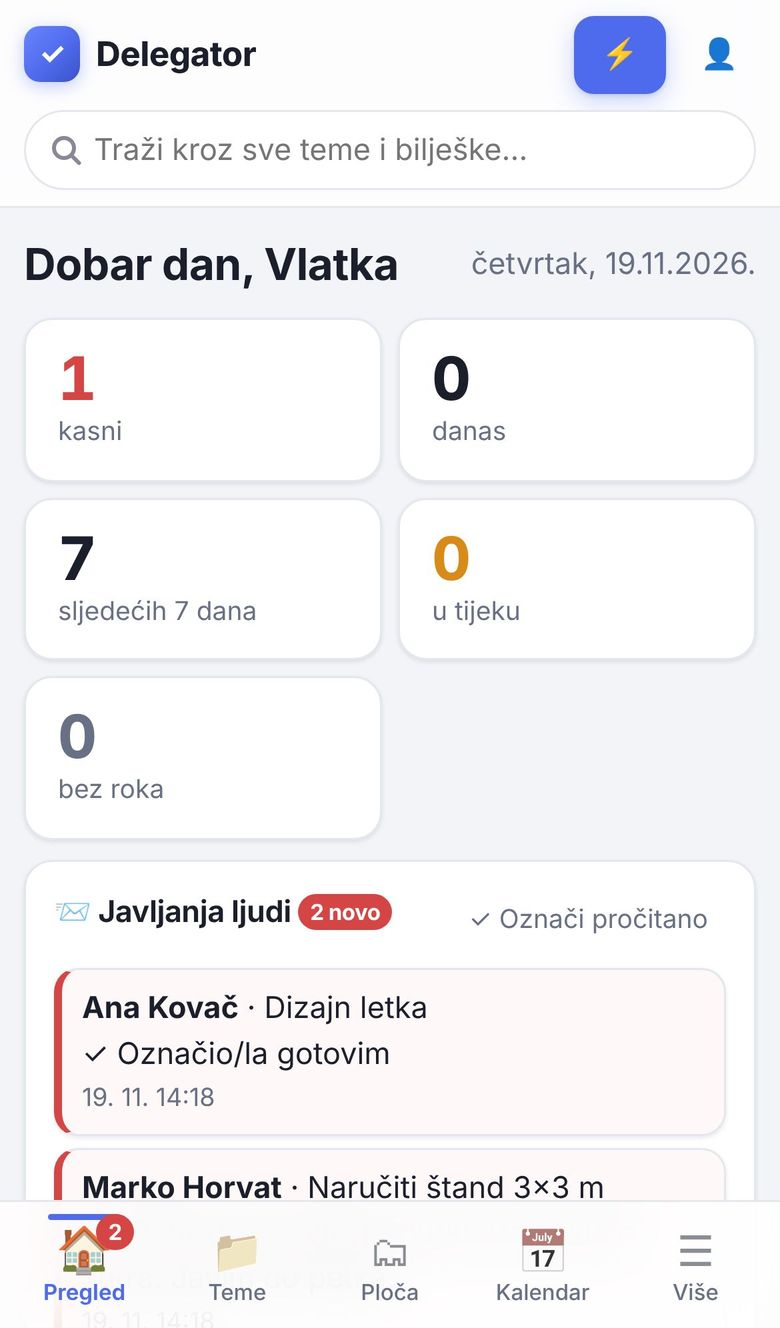
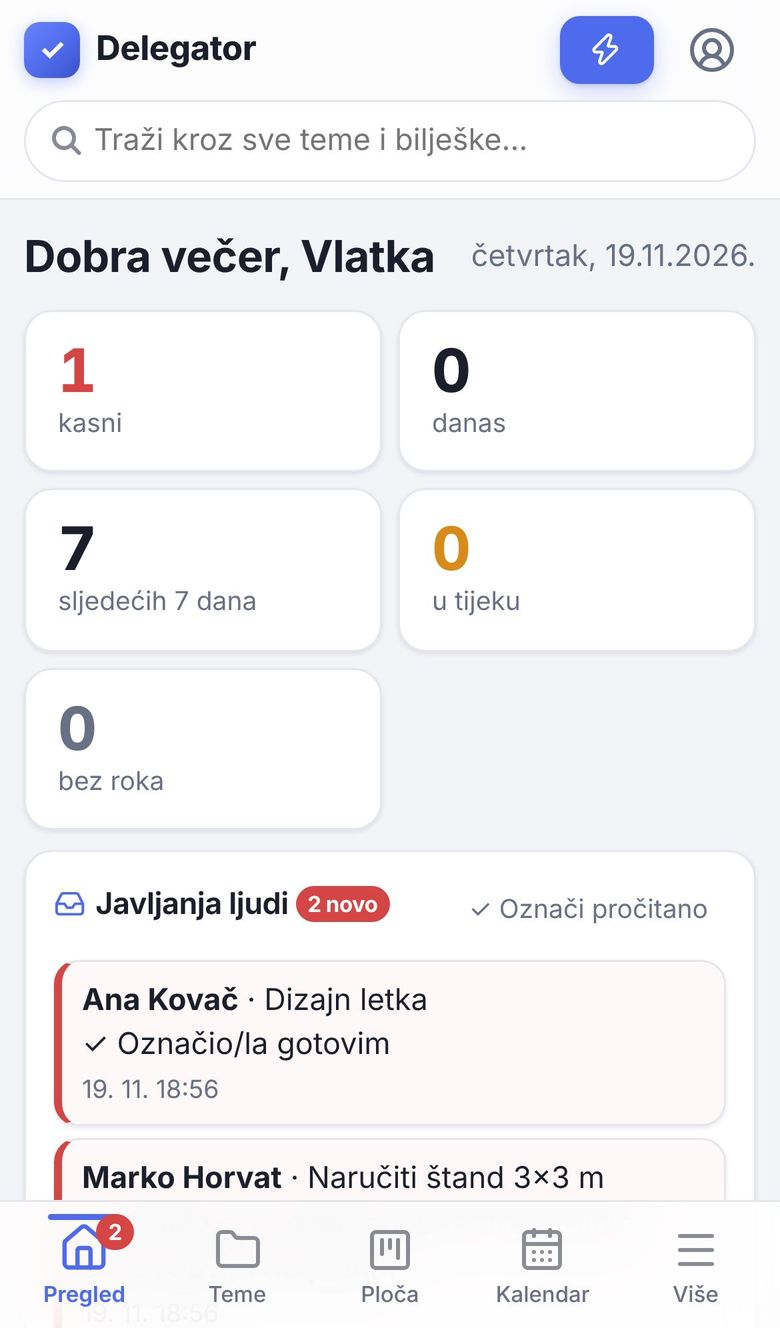
Upute: nove snimke s ikonama, ikone umjesto emojija u tekstu
Claude-Session: https://claude.ai/code/session_01YXfM3rTDVFUqxeX7kwmFfC

diff --git a/vodic.html b/vodic.html
@@ -118,6 +118,9 @@
     .phone { max-width: 320px; margin: 0 auto; }
   }
   @media (max-width: 700px) { body { font-size: 17px; } .points, .shots2 { grid-template-columns: minmax(0, 1fr); } .intro { font-size: 18px; } }
+  svg.ui { width: 1.05em; height: 1.05em; vertical-align: -0.17em; display: inline-block; }
+  h2 > svg.ui, h3 > svg.ui { color: var(--accent); width: .95em; height: .95em; vertical-align: -0.08em; margin-right: .1em; }
+  .say::before { content: none; }
 </style>
 </head>
 <body>
@@ -167,38 +170,38 @@
           <li><h3>Otvori pozivnicu</h3><p>Upiši ime, e-mail i lozinku. Poveznica vrijedi 7 dana i samo za jedan račun.</p></li>
           <li><h3>Prođi kratki vodič</h3><p>Aplikacija te sama provede kroz glavne dijelove. Uključi probnu temu da odmah vidiš kako sve izgleda.</p></li>
           <li><h3>Dodaj svoje ljude</h3><p>U kartici „Ljudi“ upiši osobe kojima delegiraš, po želji s e-mailom.</p></li>
-          <li><h3>Napravi prvi zadatak</h3><p>Najbrže preko ⚡ Brzog unosa. Probnu temu obrišeš jednim klikom kad ti više ne treba.</p></li>
+          <li><h3>Napravi prvi zadatak</h3><p>Najbrže preko <svg class="ui" viewBox="0 0 24 24" fill="none" stroke="currentColor" stroke-width="2" stroke-linecap="round" stroke-linejoin="round" aria-hidden="true"><path d="M15.914 4a1.5 1.5 0 00-2.474-1.561l-9 9A1.5 1.5 0 005.5 14h4.002a.5.5 0 01.471.666L8.086 20a1.5 1.5 0 002.475 1.56l9-9A1.5 1.5 0 0018.5 10h-3.997a.5.5 0 01-.472-.667z"/></svg> Brzog unosa. Probnu temu obrišeš jednim klikom kad ti više ne treba.</p></li>
         </ol>
         <figure class="shot"><img src="/vodic/vodic.jpg" alt="Vodič kroz aplikaciju: kartica s objašnjenjem i istaknut gumb Brzi unos" width="1600" height="1000" loading="lazy">
-          <figcaption>Vodič se otvara sam pri prvoj prijavi. Kasnije ga pokreneš u izborniku 👤 → ❓ Vodič.</figcaption></figure>
+          <figcaption>Vodič se otvara sam pri prvoj prijavi. Kasnije ga pokreneš u izborniku <svg class="ui" viewBox="0 0 24 24" fill="none" stroke="currentColor" stroke-width="2" stroke-linecap="round" stroke-linejoin="round" aria-hidden="true"><path d="M17.925 20.056a6 6 0 0 0-11.851.001"/><circle cx="12" cy="11" r="4"/><circle cx="12" cy="12" r="10"/></svg> → <svg class="ui" viewBox="0 0 24 24" fill="none" stroke="currentColor" stroke-width="2" stroke-linecap="round" stroke-linejoin="round" aria-hidden="true"><circle cx="12" cy="12" r="10"/><path d="M9.09 9a3 3 0 0 1 5.83 1c0 2-3 3-3 3"/><path d="M12 17h.01"/></svg> Vodič.</figcaption></figure>
       </section>
 
       <section id="izgled">
-        <h2>🌓 Novi izgled <span class="tag">novo</span></h2>
+        <h2><svg class="ui" viewBox="0 0 24 24" fill="none" stroke="currentColor" stroke-width="2" stroke-linecap="round" stroke-linejoin="round" aria-hidden="true"><path d="M12 2v2"/><path d="M14.837 16.385a6 6 0 1 1-7.223-7.222c.624-.147.97.66.715 1.248a4 4 0 0 0 5.26 5.259c.589-.255 1.396.09 1.248.715"/><path d="M16 12a4 4 0 0 0-4-4"/><path d="m19 5-1.256 1.256"/><path d="M20 12h2"/></svg> Novi izgled <span class="tag">novo</span></h2>
         <p class="intro">Delegator ima tamni način rada i mobitelu prilagođenu navigaciju. Kad nešto spremiš, dolje se kratko pojavi „✓ Spremljeno“.</p>
         <ul class="points">
-          <li><b>🌙 Tamni način</b>: sam se uključi kad je mobitel ili računalo u tamnom načinu. Ručno ga biraš u izborniku 👤 → Izgled (Automatski, Svijetli, Tamni).</li>
-          <li><b>📱 Donja traka na mobitelu</b>: Pregled, Teme, Ploča i Kalendar su na dohvat palca, a ostalo je pod ☰ Više.</li>
-          <li><b>🖥 Na računalu</b> su sve kartice gore u zaglavlju, a pretraga je uvijek pri ruci.</li>
-          <li><b>✨ Sitne potvrde</b>: završen zadatak kratko zasvijetli, a kvačica koraka „poskoči“.</li>
+          <li><b><svg class="ui" viewBox="0 0 24 24" fill="none" stroke="currentColor" stroke-width="2" stroke-linecap="round" stroke-linejoin="round" aria-hidden="true"><path d="M20.985 12.486a9 9 0 1 1-9.473-9.472c.405-.022.617.46.402.803a6 6 0 0 0 8.268 8.268c.344-.215.825-.004.803.401"/></svg> Tamni način</b>: sam se uključi kad je mobitel ili računalo u tamnom načinu. Ručno ga biraš u izborniku <svg class="ui" viewBox="0 0 24 24" fill="none" stroke="currentColor" stroke-width="2" stroke-linecap="round" stroke-linejoin="round" aria-hidden="true"><path d="M17.925 20.056a6 6 0 0 0-11.851.001"/><circle cx="12" cy="11" r="4"/><circle cx="12" cy="12" r="10"/></svg> → Izgled (Automatski, Svijetli, Tamni).</li>
+          <li><b><svg class="ui" viewBox="0 0 24 24" fill="none" stroke="currentColor" stroke-width="2" stroke-linecap="round" stroke-linejoin="round" aria-hidden="true"><rect width="14" height="20" x="5" y="2" rx="2" ry="2"/><path d="M12 18h.01"/></svg> Donja traka na mobitelu</b>: Pregled, Teme, Ploča i Kalendar su na dohvat palca, a ostalo je pod <svg class="ui" viewBox="0 0 24 24" fill="none" stroke="currentColor" stroke-width="2" stroke-linecap="round" stroke-linejoin="round" aria-hidden="true"><path d="M4 5h16"/><path d="M4 12h16"/><path d="M4 19h16"/></svg> Više.</li>
+          <li><b><svg class="ui" viewBox="0 0 24 24" fill="none" stroke="currentColor" stroke-width="2" stroke-linecap="round" stroke-linejoin="round" aria-hidden="true"><rect width="20" height="14" x="2" y="3" rx="2"/><line x1="8" x2="16" y1="21" y2="21"/><line x1="12" x2="12" y1="17" y2="21"/></svg> Na računalu</b> su sve kartice gore u zaglavlju, a pretraga je uvijek pri ruci.</li>
+          <li><b><svg class="ui" viewBox="0 0 24 24" fill="none" stroke="currentColor" stroke-width="2" stroke-linecap="round" stroke-linejoin="round" aria-hidden="true"><path d="M11.017 2.814a1 1 0 0 1 1.966 0l1.051 5.558a2 2 0 0 0 1.594 1.594l5.558 1.051a1 1 0 0 1 0 1.966l-5.558 1.051a2 2 0 0 0-1.594 1.594l-1.051 5.558a1 1 0 0 1-1.966 0l-1.051-5.558a2 2 0 0 0-1.594-1.594l-5.558-1.051a1 1 0 0 1 0-1.966l5.558-1.051a2 2 0 0 0 1.594-1.594z"/><path d="M20 2v4"/><path d="M22 4h-4"/><circle cx="4" cy="20" r="2"/></svg> Sitne potvrde</b>: završen zadatak kratko zasvijetli, a kvačica koraka „poskoči“.</li>
         </ul>
         <div class="shots2">
           <figure class="shot"><img src="/vodic/tamna.jpg" alt="Pregled u tamnom načinu rada" width="1600" height="1000" loading="lazy">
             <figcaption>Pregled u tamnom načinu.</figcaption></figure>
           <figure class="shot"><img src="/vodic/izbornik.jpg" alt="Izbornik računa s izborom izgleda: Automatski, Svijetli, Tamni" width="1600" height="1000" loading="lazy">
-            <figcaption>👤 → Izgled: Automatski, Svijetli ili Tamni.</figcaption></figure>
+            <figcaption><svg class="ui" viewBox="0 0 24 24" fill="none" stroke="currentColor" stroke-width="2" stroke-linecap="round" stroke-linejoin="round" aria-hidden="true"><path d="M17.925 20.056a6 6 0 0 0-11.851.001"/><circle cx="12" cy="11" r="4"/><circle cx="12" cy="12" r="10"/></svg> → Izgled: Automatski, Svijetli ili Tamni.</figcaption></figure>
         </div>
       </section>
 
       <section id="brzi-unos">
-        <h2>⚡ Brzi unos uz AI</h2>
+        <h2><svg class="ui" viewBox="0 0 24 24" fill="none" stroke="currentColor" stroke-width="2" stroke-linecap="round" stroke-linejoin="round" aria-hidden="true"><path d="M15.914 4a1.5 1.5 0 00-2.474-1.561l-9 9A1.5 1.5 0 005.5 14h4.002a.5.5 0 01.471.666L8.086 20a1.5 1.5 0 002.475 1.56l9-9A1.5 1.5 0 0018.5 10h-3.997a.5.5 0 01-.472-.667z"/></svg> Brzi unos uz AI</h2>
         <p class="intro">Zadatak ne moraš slagati polje po polje. Reci ga, upiši jednom rečenicom ili slikaj dokument, a AI predloži temu, osobu, rok, korake i bilješke. Prije spremanja sve provjeriš.</p>
-        <div class="say">„Marko do petka naruči štand za sajam, budžet 2000 eura“</div>
+        <div class="say"><svg class="ui" viewBox="0 0 24 24" fill="none" stroke="currentColor" stroke-width="2" stroke-linecap="round" stroke-linejoin="round" aria-hidden="true"><path d="M12 19v3"/><path d="M19 10v2a7 7 0 0 1-14 0v-2"/><rect x="9" y="2" width="6" height="13" rx="3"/></svg> „Marko do petka naruči štand za sajam, budžet 2000 eura“</div>
         <ul class="points">
-          <li><b>Glasom</b>: 🎤 diktiranje na hrvatskom, razumije i padeže („Marku“ je Marko). Kad kažeš „moram…“ ili „ja ću…“, zadatak dobiješ ti.</li>
+          <li><b>Glasom</b>: <svg class="ui" viewBox="0 0 24 24" fill="none" stroke="currentColor" stroke-width="2" stroke-linecap="round" stroke-linejoin="round" aria-hidden="true"><path d="M12 19v3"/><path d="M19 10v2a7 7 0 0 1-14 0v-2"/><rect x="9" y="2" width="6" height="13" rx="3"/></svg> diktiranje na hrvatskom, razumije i padeže („Marku“ je Marko). Kad kažeš „moram…“ ili „ja ću…“, zadatak dobiješ ti.</li>
           <li><b>Fotografijom</b>: račun, ponuda, dopis, ploča sa sastanka. AI pročita iznos, rok, IBAN i poziv na broj.</li>
           <li><b>PDF-om</b>: ponuda ili račun iz maila, i skenirani dokumenti. Datoteka ostaje uz zadatak kao prilog.</li>
-          <li><b>📋 Zapisnik sa sastanka</b>: uključi „Zapisnik / popis“ i AI iz jednog teksta napravi više zadataka, svaki za svoju osobu.</li>
+          <li><b><svg class="ui" viewBox="0 0 24 24" fill="none" stroke="currentColor" stroke-width="2" stroke-linecap="round" stroke-linejoin="round" aria-hidden="true"><rect width="8" height="4" x="8" y="2" rx="1" ry="1"/><path d="M16 4h2a2 2 0 0 1 2 2v14a2 2 0 0 1-2 2H6a2 2 0 0 1-2-2V6a2 2 0 0 1 2-2h2"/><path d="M12 11h4"/><path d="M12 16h4"/><path d="M8 11h.01"/><path d="M8 16h.01"/></svg> Zapisnik sa sastanka</b>: uključi „Zapisnik / popis“ i AI iz jednog teksta napravi više zadataka, svaki za svoju osobu.</li>
         </ul>
         <div class="shots2">
           <figure class="shot"><img src="/vodic/brzi-unos.jpg" alt="Prijedlog zadatka iz fotografije računa s rokom, osobom i podacima za plaćanje" width="1600" height="1000" loading="lazy">
@@ -209,15 +212,15 @@
       </section>
 
       <section id="teme">
-        <h2>📁 Teme, zadaci i koraci</h2>
+        <h2><svg class="ui" viewBox="0 0 24 24" fill="none" stroke="currentColor" stroke-width="2" stroke-linecap="round" stroke-linejoin="round" aria-hidden="true"><path d="M20 20a2 2 0 0 0 2-2V8a2 2 0 0 0-2-2h-7.9a2 2 0 0 1-1.69-.9L9.6 3.9A2 2 0 0 0 7.93 3H4a2 2 0 0 0-2 2v13a2 2 0 0 0 2 2Z"/></svg> Teme, zadaci i koraci</h2>
         <p class="intro">Sve je složeno u teme i podteme bilo koje dubine, npr. Sajam 2027 › Štand. Klikni zadatak da ga otvoriš: koraci, prilozi, bilješke za svaku osobu i javljanja.</p>
         <ul class="points">
-          <li><b>☑ Koraci</b>: popis za kvačice unutar zadatka, s napretkom „1/3“ na zadatku i ploči.</li>
+          <li><b><svg class="ui" viewBox="0 0 24 24" fill="none" stroke="currentColor" stroke-width="2" stroke-linecap="round" stroke-linejoin="round" aria-hidden="true"><path d="M13 5h8"/><path d="M13 12h8"/><path d="M13 19h8"/><path d="m3 17 2 2 4-4"/><path d="m3 7 2 2 4-4"/></svg> Koraci</b>: popis za kvačice unutar zadatka, s napretkom „1/3“ na zadatku i ploči.</li>
           <li><b>Bilješke za svaku osobu</b>: Marko vidi svoje upute, Ana svoje, a opće vrijede za sve.</li>
-          <li><b>📎 Prilozi</b>: PDF, fotografije i dokumenti uz zadatak, bilješku ili cijelu temu. PDF se otvara unutar aplikacije.</li>
-          <li><b>🔁 Ponavljanje</b>: tjedni sastanak ili mjesečni PDV. Kad ga završiš, sam se napravi sljedeći.</li>
-          <li><b>📋 Predlošci</b>: temu spremiš kao predložak i za sljedeći projekt je kopiraš, s preračunatim rokovima.</li>
-          <li><b>🔍 Pretraga</b> kroz sve teme, bilješke i nazive priloga, bez obzira na kvačice („stand“ nađe „štand“).</li>
+          <li><b><svg class="ui" viewBox="0 0 24 24" fill="none" stroke="currentColor" stroke-width="2" stroke-linecap="round" stroke-linejoin="round" aria-hidden="true"><path d="m16 6-8.414 8.586a2 2 0 0 0 2.829 2.829l8.414-8.586a4 4 0 1 0-5.657-5.657l-8.379 8.551a6 6 0 1 0 8.485 8.485l8.379-8.551"/></svg> Prilozi</b>: PDF, fotografije i dokumenti uz zadatak, bilješku ili cijelu temu. PDF se otvara unutar aplikacije.</li>
+          <li><b><svg class="ui" viewBox="0 0 24 24" fill="none" stroke="currentColor" stroke-width="2" stroke-linecap="round" stroke-linejoin="round" aria-hidden="true"><path d="m17 2 4 4-4 4"/><path d="M3 11v-1a4 4 0 0 1 4-4h14"/><path d="m7 22-4-4 4-4"/><path d="M21 13v1a4 4 0 0 1-4 4H3"/></svg> Ponavljanje</b>: tjedni sastanak ili mjesečni PDV. Kad ga završiš, sam se napravi sljedeći.</li>
+          <li><b><svg class="ui" viewBox="0 0 24 24" fill="none" stroke="currentColor" stroke-width="2" stroke-linecap="round" stroke-linejoin="round" aria-hidden="true"><rect width="8" height="4" x="8" y="2" rx="1" ry="1"/><path d="M16 4h2a2 2 0 0 1 2 2v14a2 2 0 0 1-2 2H6a2 2 0 0 1-2-2V6a2 2 0 0 1 2-2h2"/><path d="M12 11h4"/><path d="M12 16h4"/><path d="M8 11h.01"/><path d="M8 16h.01"/></svg> Predlošci</b>: temu spremiš kao predložak i za sljedeći projekt je kopiraš, s preračunatim rokovima.</li>
+          <li><b><svg class="ui" viewBox="0 0 24 24" fill="none" stroke="currentColor" stroke-width="2" stroke-linecap="round" stroke-linejoin="round" aria-hidden="true"><path d="m21 21-4.34-4.34"/><circle cx="11" cy="11" r="8"/></svg> Pretraga</b> kroz sve teme, bilješke i nazive priloga, bez obzira na kvačice („stand“ nađe „štand“).</li>
         </ul>
         <figure class="shot"><img src="/vodic/teme.jpg" alt="Otvoreni zadatak s koracima, PDF prilogom, bilješkom za Marka i Markovim javljanjem" width="1600" height="1000" loading="lazy">
           <figcaption>Otvoreni zadatak: koraci, PDF ponuda, upute za Marka i njegovo javljanje („Dobio sam dvije ponude…“).</figcaption></figure>
@@ -245,77 +248,77 @@
       </section>
 
       <section id="poveznica">
-        <h2>🔗 Poveznica za ljude kojima delegiraš</h2>
+        <h2><svg class="ui" viewBox="0 0 24 24" fill="none" stroke="currentColor" stroke-width="2" stroke-linecap="round" stroke-linejoin="round" aria-hidden="true"><path d="M10 13a5 5 0 0 0 7.54.54l3-3a5 5 0 0 0-7.07-7.07l-1.72 1.71"/><path d="M14 11a5 5 0 0 0-7.54-.54l-3 3a5 5 0 0 0 7.07 7.07l1.71-1.71"/></svg> Poveznica za ljude kojima delegiraš</h2>
         <p class="intro">Svaka osoba dobije svoju poveznicu. Na mobitelu vidi samo svoje zadatke, upute, korake i priloge, a može označiti „U tijeku“ ili „Gotovo“ i napisati poruku. Bez registracije. Ti njeno javljanje odmah vidiš u Pregledu, uz obavijest na mobitel.</p>
         <div class="withphone">
           <figure class="shot"><img src="/vodic/poveznica.jpg" alt="Dijalog s osobnom poveznicom za Marka i gumbima za kopiranje, WhatsApp i mail" width="1600" height="1000" loading="lazy">
-            <figcaption>Ljudi → 🔗 → pošalji poveznicu WhatsAppom ili mailom.</figcaption></figure>
+            <figcaption>Ljudi → <svg class="ui" viewBox="0 0 24 24" fill="none" stroke="currentColor" stroke-width="2" stroke-linecap="round" stroke-linejoin="round" aria-hidden="true"><path d="M10 13a5 5 0 0 0 7.54.54l3-3a5 5 0 0 0-7.07-7.07l-1.72 1.71"/><path d="M14 11a5 5 0 0 0-7.54-.54l-3 3a5 5 0 0 0 7.07 7.07l1.71-1.71"/></svg> → pošalji poveznicu WhatsAppom ili mailom.</figcaption></figure>
           <div><div class="phone"><img src="/vodic/osoba-mobitel.jpg" alt="Markova stranica na mobitelu s njegovim zadacima i gumbima za status" width="780" height="1328" loading="lazy"></div>
             <div class="phone-cap">Ovo vidi Marko na svom mobitelu</div></div>
         </div>
       </section>
 
       <section id="pregled">
-        <h2>🏠 Pregled</h2>
+        <h2><svg class="ui" viewBox="0 0 24 24" fill="none" stroke="currentColor" stroke-width="2" stroke-linecap="round" stroke-linejoin="round" aria-hidden="true"><path d="M15 21v-8a1 1 0 0 0-1-1h-4a1 1 0 0 0-1 1v8"/><path d="M3 10a2 2 0 0 1 .709-1.528l7-6a2 2 0 0 1 2.582 0l7 6A2 2 0 0 1 21 10v9a2 2 0 0 1-2 2H5a2 2 0 0 1-2-2z"/></svg> Pregled</h2>
         <p class="intro">Početna stranica za jutarnju kavu: što kasni, što je danas i što dolazi ovaj tjedan, tko se javio (crvena značka), tko je koliko opterećen i koliko je koja tema gotova. Klik na bilo što vodi u detalje.</p>
       </section>
 
       <section id="kalendar">
-        <h2>📅 Kalendar</h2>
+        <h2><svg class="ui" viewBox="0 0 24 24" fill="none" stroke="currentColor" stroke-width="2" stroke-linecap="round" stroke-linejoin="round" aria-hidden="true"><path d="M8 2v3"/><path d="M16 2v3"/><rect x="3" y="3" width="18" height="18" rx="2"/><path d="M3 9h18"/><path d="M8 13h.01"/><path d="M12 13h.01"/><path d="M16 13h.01"/><path d="M8 17h.01"/><path d="M12 17h.01"/><path d="M16 17h.01"/></svg> Kalendar</h2>
         <p class="intro">Svi rokovi na jednom mjestu (mjesec, tjedan ili popis), obojeni po temi. Hrvatski blagdani su označeni.</p>
         <ul class="points">
           <li><b>Povuci zadatak</b> na drugi dan i rok se promijeni. Višednevni zadaci pomiču se cijeli.</li>
           <li><b>„+“ u danu</b> dodaje zadatak s tim rokom. Filtri po osobi i temi.</li>
-          <li><b>📲 Dodaj u Google/Apple kalendar</b>: rokovi se sami pojavljuju u kalendaru na mobitelu.</li>
-          <li><b>🔁 Ponavljanja</b> se vide unaprijed, blijedo.</li>
+          <li><b><svg class="ui" viewBox="0 0 24 24" fill="none" stroke="currentColor" stroke-width="2" stroke-linecap="round" stroke-linejoin="round" aria-hidden="true"><rect width="14" height="20" x="5" y="2" rx="2" ry="2"/><path d="M12 18h.01"/></svg> Dodaj u Google/Apple kalendar</b>: rokovi se sami pojavljuju u kalendaru na mobitelu.</li>
+          <li><b><svg class="ui" viewBox="0 0 24 24" fill="none" stroke="currentColor" stroke-width="2" stroke-linecap="round" stroke-linejoin="round" aria-hidden="true"><path d="m17 2 4 4-4 4"/><path d="M3 11v-1a4 4 0 0 1 4-4h14"/><path d="m7 22-4-4 4-4"/><path d="M21 13v1a4 4 0 0 1-4 4H3"/></svg> Ponavljanja</b> se vide unaprijed, blijedo.</li>
         </ul>
         <figure class="shot"><img src="/vodic/kalendar.jpg" alt="Mjesečni kalendar sa zadacima obojenima po temama" width="1600" height="1000" loading="lazy"></figure>
       </section>
 
       <section id="ploca">
-        <h2>🗂 Ploča</h2>
+        <h2><svg class="ui" viewBox="0 0 24 24" fill="none" stroke="currentColor" stroke-width="2" stroke-linecap="round" stroke-linejoin="round" aria-hidden="true"><rect width="18" height="18" x="3" y="3" rx="2"/><path d="M8 7v7"/><path d="M12 7v4"/><path d="M16 7v9"/></svg> Ploča</h2>
         <p class="intro">Zadaci u tri stupca: Za napraviti, U tijeku i Gotovo. Povuci karticu kad se nešto pomakne. Na kartici se vide rok, ljudi, koraci i prilozi.</p>
         <figure class="shot"><img src="/vodic/ploca.jpg" alt="Ploča s tri stupca zadataka" width="1600" height="1000" loading="lazy"></figure>
       </section>
 
       <section id="biljeske">
-        <h2>📝 Bilješke</h2>
-        <p class="intro">Tvoje osobne bilješke, nevezane uz zadatke: ideje, sastanci, popisi, računi. Vidiš ih samo ti. Mogu imati boju, biti 📌 prikvačene, izdiktirane 🎤 i imati priloge.</p>
+        <h2><svg class="ui" viewBox="0 0 24 24" fill="none" stroke="currentColor" stroke-width="2" stroke-linecap="round" stroke-linejoin="round" aria-hidden="true"><path d="M13.4 2H6a2 2 0 0 0-2 2v16a2 2 0 0 0 2 2h12a2 2 0 0 0 2-2v-7.4"/><path d="M2 6h4"/><path d="M2 10h4"/><path d="M2 14h4"/><path d="M2 18h4"/><path d="M21.378 5.626a1 1 0 1 0-3.004-3.004l-5.01 5.012a2 2 0 0 0-.506.854l-.837 2.87a.5.5 0 0 0 .62.62l2.87-.837a2 2 0 0 0 .854-.506z"/></svg> Bilješke</h2>
+        <p class="intro">Tvoje osobne bilješke, nevezane uz zadatke: ideje, sastanci, popisi, računi. Vidiš ih samo ti. Mogu imati boju, biti <svg class="ui" viewBox="0 0 24 24" fill="none" stroke="currentColor" stroke-width="2" stroke-linecap="round" stroke-linejoin="round" aria-hidden="true"><path d="M12 17v5"/><path d="M9 10.76a2 2 0 0 1-1.11 1.79l-1.78.9A2 2 0 0 0 5 15.24V16a1 1 0 0 0 1 1h12a1 1 0 0 0 1-1v-.76a2 2 0 0 0-1.11-1.79l-1.78-.9A2 2 0 0 1 15 10.76V7a1 1 0 0 1 1-1 2 2 0 0 0 0-4H8a2 2 0 0 0 0 4 1 1 0 0 1 1 1z"/></svg> prikvačene, izdiktirane <svg class="ui" viewBox="0 0 24 24" fill="none" stroke="currentColor" stroke-width="2" stroke-linecap="round" stroke-linejoin="round" aria-hidden="true"><path d="M12 19v3"/><path d="M19 10v2a7 7 0 0 1-14 0v-2"/><rect x="9" y="2" width="6" height="13" rx="3"/></svg> i imati priloge.</p>
         <figure class="shot"><img src="/vodic/biljeske.jpg" alt="Kartica Bilješke s obojenim bilješkama" width="1600" height="1000" loading="lazy"></figure>
       </section>
 
       <section id="statistika">
-        <h2>📈 Statistika i izvoz</h2>
+        <h2><svg class="ui" viewBox="0 0 24 24" fill="none" stroke="currentColor" stroke-width="2" stroke-linecap="round" stroke-linejoin="round" aria-hidden="true"><path d="M5 21v-6"/><path d="M12 21V3"/><path d="M19 21V9"/></svg> Statistika i izvoz</h2>
         <p class="intro">Koliko je završeno po tjednima, koliki postotak na vrijeme, koliko dana prosječno traje zadatak, i sve to po osobi i po temi. Za sastanke i šefa: izvoz u Excel i izvještaj za ispis ili PDF, za temu, osobu ili sve.</p>
         <figure class="shot"><img src="/vodic/statistika.jpg" alt="Statistika: brojke, tjedni grafikon i tablice po osobi i temi" width="1600" height="1000" loading="lazy"></figure>
       </section>
 
       <section id="mreza">
-        <h2>🕸 Mreža</h2>
+        <h2><svg class="ui" viewBox="0 0 24 24" fill="none" stroke="currentColor" stroke-width="2" stroke-linecap="round" stroke-linejoin="round" aria-hidden="true"><rect x="16" y="16" width="6" height="6" rx="1"/><rect x="2" y="16" width="6" height="6" rx="1"/><rect x="9" y="2" width="6" height="6" rx="1"/><path d="M5 16v-3a1 1 0 0 1 1-1h12a1 1 0 0 1 1 1v3"/><path d="M12 12V8"/></svg> Mreža</h2>
         <p class="intro">Cijeli sustav na jednoj slici: teme, podteme, zadaci, ljudi i bilješke povezani u graf. Klik na čvor istakne sve što je s njim povezano, npr. sve zadatke jedne osobe kroz sve teme.</p>
         <figure class="shot"><img src="/vodic/mreza.jpg" alt="Mrežni prikaz tema, zadataka i ljudi" width="1600" height="1000" loading="lazy"></figure>
       </section>
 
       <section id="mobitel">
-        <h2>📲 Na mobitelu</h2>
+        <h2><svg class="ui" viewBox="0 0 24 24" fill="none" stroke="currentColor" stroke-width="2" stroke-linecap="round" stroke-linejoin="round" aria-hidden="true"><rect width="14" height="20" x="5" y="2" rx="2" ry="2"/><path d="M12 18h.01"/></svg> Na mobitelu</h2>
         <p class="intro">Delegator se instalira kao aplikacija: ikona na početnom zaslonu, donja traka s glavnim karticama, obavijesti i rad bez interneta.</p>
         <div class="phones3">
           <div><div class="phone"><img src="/vodic/mobitel-pregled.jpg" alt="Pregled na mobitelu s donjom trakom" width="780" height="1328" loading="lazy"></div><div class="phone-cap">Pregled i donja traka</div></div>
-          <div><div class="phone"><img src="/vodic/mobitel-vise.jpg" alt="Izbornik Više na mobitelu" width="780" height="1328" loading="lazy"></div><div class="phone-cap">☰ Više: ostale kartice</div></div>
+          <div><div class="phone"><img src="/vodic/mobitel-vise.jpg" alt="Izbornik Više na mobitelu" width="780" height="1328" loading="lazy"></div><div class="phone-cap"><svg class="ui" viewBox="0 0 24 24" fill="none" stroke="currentColor" stroke-width="2" stroke-linecap="round" stroke-linejoin="round" aria-hidden="true"><path d="M4 5h16"/><path d="M4 12h16"/><path d="M4 19h16"/></svg> Više: ostale kartice</div></div>
           <div><div class="phone"><img src="/vodic/mobitel-tamna.jpg" alt="Ploča na mobitelu u tamnom načinu" width="780" height="1328" loading="lazy"></div><div class="phone-cap">Ploča u tamnom načinu</div></div>
         </div>
         <div>
           <div class="cards">
             <div><h3>iPhone i iPad</h3><p>Otvori adresu u Safariju → <b>Dijeli</b> (□↑) → <b>Dodaj na početni zaslon</b>, pa otvori aplikaciju s ikone.</p></div>
-            <div><h3>Android</h3><p>Otvori adresu u Chromeu → izbornik <b>⋮</b> → <b>Instaliraj aplikaciju</b>. Gumb je i u izborniku 👤.</p></div>
-            <div><h3>🔔 Obavijesti</h3><p>👤 → <b>Uključi obavijesti</b>: jutarnji sažetak (što kasni, što je danas) i obavijest kad se netko javi. Na iPhoneu rade kad je aplikacija na početnom zaslonu.</p></div>
-            <div><h3>📴 Bez interneta</h3><p>Zadnji podaci se mogu čitati. Status, korake i bilješke možeš mijenjati, a promjene se pošalju same kad se veza vrati.</p></div>
+            <div><h3>Android</h3><p>Otvori adresu u Chromeu → izbornik <b>⋮</b> → <b>Instaliraj aplikaciju</b>. Gumb je i u izborniku <svg class="ui" viewBox="0 0 24 24" fill="none" stroke="currentColor" stroke-width="2" stroke-linecap="round" stroke-linejoin="round" aria-hidden="true"><path d="M17.925 20.056a6 6 0 0 0-11.851.001"/><circle cx="12" cy="11" r="4"/><circle cx="12" cy="12" r="10"/></svg>.</p></div>
+            <div><h3><svg class="ui" viewBox="0 0 24 24" fill="none" stroke="currentColor" stroke-width="2" stroke-linecap="round" stroke-linejoin="round" aria-hidden="true"><path d="M10.268 21a2 2 0 0 0 3.464 0"/><path d="M3.262 15.326A1 1 0 0 0 4 17h16a1 1 0 0 0 .74-1.673C19.41 13.956 18 12.499 18 8A6 6 0 0 0 6 8c0 4.499-1.411 5.956-2.738 7.326"/></svg> Obavijesti</h3><p><svg class="ui" viewBox="0 0 24 24" fill="none" stroke="currentColor" stroke-width="2" stroke-linecap="round" stroke-linejoin="round" aria-hidden="true"><path d="M17.925 20.056a6 6 0 0 0-11.851.001"/><circle cx="12" cy="11" r="4"/><circle cx="12" cy="12" r="10"/></svg> → <b>Uključi obavijesti</b>: jutarnji sažetak (što kasni, što je danas) i obavijest kad se netko javi. Na iPhoneu rade kad je aplikacija na početnom zaslonu.</p></div>
+            <div><h3><svg class="ui" viewBox="0 0 24 24" fill="none" stroke="currentColor" stroke-width="2" stroke-linecap="round" stroke-linejoin="round" aria-hidden="true"><path d="M12 20h.01"/><path d="M8.5 16.429a5 5 0 0 1 7 0"/><path d="M5 12.859a10 10 0 0 1 5.17-2.69"/><path d="M19 12.859a10 10 0 0 0-2.007-1.523"/><path d="M2 8.82a15 15 0 0 1 4.177-2.643"/><path d="M22 8.82a15 15 0 0 0-11.288-3.764"/><path d="m2 2 20 20"/></svg> Bez interneta</h3><p>Zadnji podaci se mogu čitati. Status, korake i bilješke možeš mijenjati, a promjene se pošalju same kad se veza vrati.</p></div>
           </div>
         </div>
       </section>
 
       <section id="sigurnost">
-        <h2>🔒 Privatnost i sigurnosne kopije</h2>
+        <h2><svg class="ui" viewBox="0 0 24 24" fill="none" stroke="currentColor" stroke-width="2" stroke-linecap="round" stroke-linejoin="round" aria-hidden="true"><rect width="18" height="11" x="3" y="11" rx="2" ry="2"/><path d="M7 11V7a5 5 0 0 1 10 0v4"/></svg> Privatnost i sigurnosne kopije</h2>
         <div class="cards">
           <div><h3>Tvoji podaci su tvoji</h3><p>Svaki korisnik vidi samo svoje teme, zadatke, ljude i bilješke. Prilozi se ne otvaraju bez prijave, ni s poveznicom.</p></div>
           <div><h3>Poveznice za ljude</h3><p>Osoba vidi samo zadatke na kojima je. Ako je poveznica procurila, napraviš novu jednim klikom i stara odmah prestaje raditi.</p></div>
@@ -324,10 +327,10 @@
       </section>
 
       <section id="pitanja">
-        <h2>💬 Česta pitanja</h2>
+        <h2><svg class="ui" viewBox="0 0 24 24" fill="none" stroke="currentColor" stroke-width="2" stroke-linecap="round" stroke-linejoin="round" aria-hidden="true"><path d="M22 17a2 2 0 0 1-2 2H6.828a2 2 0 0 0-1.414.586l-2.202 2.202A.71.71 0 0 1 2 21.286V5a2 2 0 0 1 2-2h16a2 2 0 0 1 2 2z"/></svg> Česta pitanja</h2>
         <div>
           <details><summary>Mora li osoba kojoj delegiram imati račun?</summary>
-            <p>Ne. Pošalješ joj njenu poveznicu (Ljudi → 🔗) i ona na mobitelu vidi svoje zadatke, označava napredak i javlja se porukom.</p></details>
+            <p>Ne. Pošalješ joj njenu poveznicu (Ljudi → <svg class="ui" viewBox="0 0 24 24" fill="none" stroke="currentColor" stroke-width="2" stroke-linecap="round" stroke-linejoin="round" aria-hidden="true"><path d="M10 13a5 5 0 0 0 7.54.54l3-3a5 5 0 0 0-7.07-7.07l-1.72 1.71"/><path d="M14 11a5 5 0 0 0-7.54-.54l-3 3a5 5 0 0 0 7.07 7.07l1.71-1.71"/></svg>) i ona na mobitelu vidi svoje zadatke, označava napredak i javlja se porukom.</p></details>
           <details><summary>Trebam li račun da bih pročitao ove upute?</summary>
             <p>Ne. Upute su javne i otvaraju se bez prijave, pa ih možeš slobodno proslijediti. Za samu aplikaciju treba pozivnica.</p></details>
           <details><summary>Kako dodam sebe u zadatak?</summary>
@@ -339,7 +342,7 @@
           <details><summary>Koje datoteke mogu priložiti?</summary>
             <p>PDF, fotografije, Word, Excel i druge dokumente, do 20 MB po datoteci. Fotografije s mobitela automatski se smanje.</p></details>
           <details><summary>Ne stižu mi obavijesti.</summary>
-            <p>U izborniku 👤 provjeri jesu li uključene na tom uređaju. Na iPhoneu obavijesti rade samo u aplikaciji dodanoj na početni zaslon. Ako ih je preglednik blokirao, dopusti ih u postavkama za ovu stranicu.</p></details>
+            <p>U izborniku <svg class="ui" viewBox="0 0 24 24" fill="none" stroke="currentColor" stroke-width="2" stroke-linecap="round" stroke-linejoin="round" aria-hidden="true"><path d="M17.925 20.056a6 6 0 0 0-11.851.001"/><circle cx="12" cy="11" r="4"/><circle cx="12" cy="12" r="10"/></svg> provjeri jesu li uključene na tom uređaju. Na iPhoneu obavijesti rade samo u aplikaciji dodanoj na početni zaslon. Ako ih je preglednik blokirao, dopusti ih u postavkama za ovu stranicu.</p></details>
           <details><summary>Diktiranje mi ne radi.</summary>
             <p>Diktiranje radi u Chromeu, Edgeu i Safariju, a ne radi u Firefoxu. Prvi put preglednik pita za dopuštenje za mikrofon, pa ga odobri.</p></details>
         </div>
